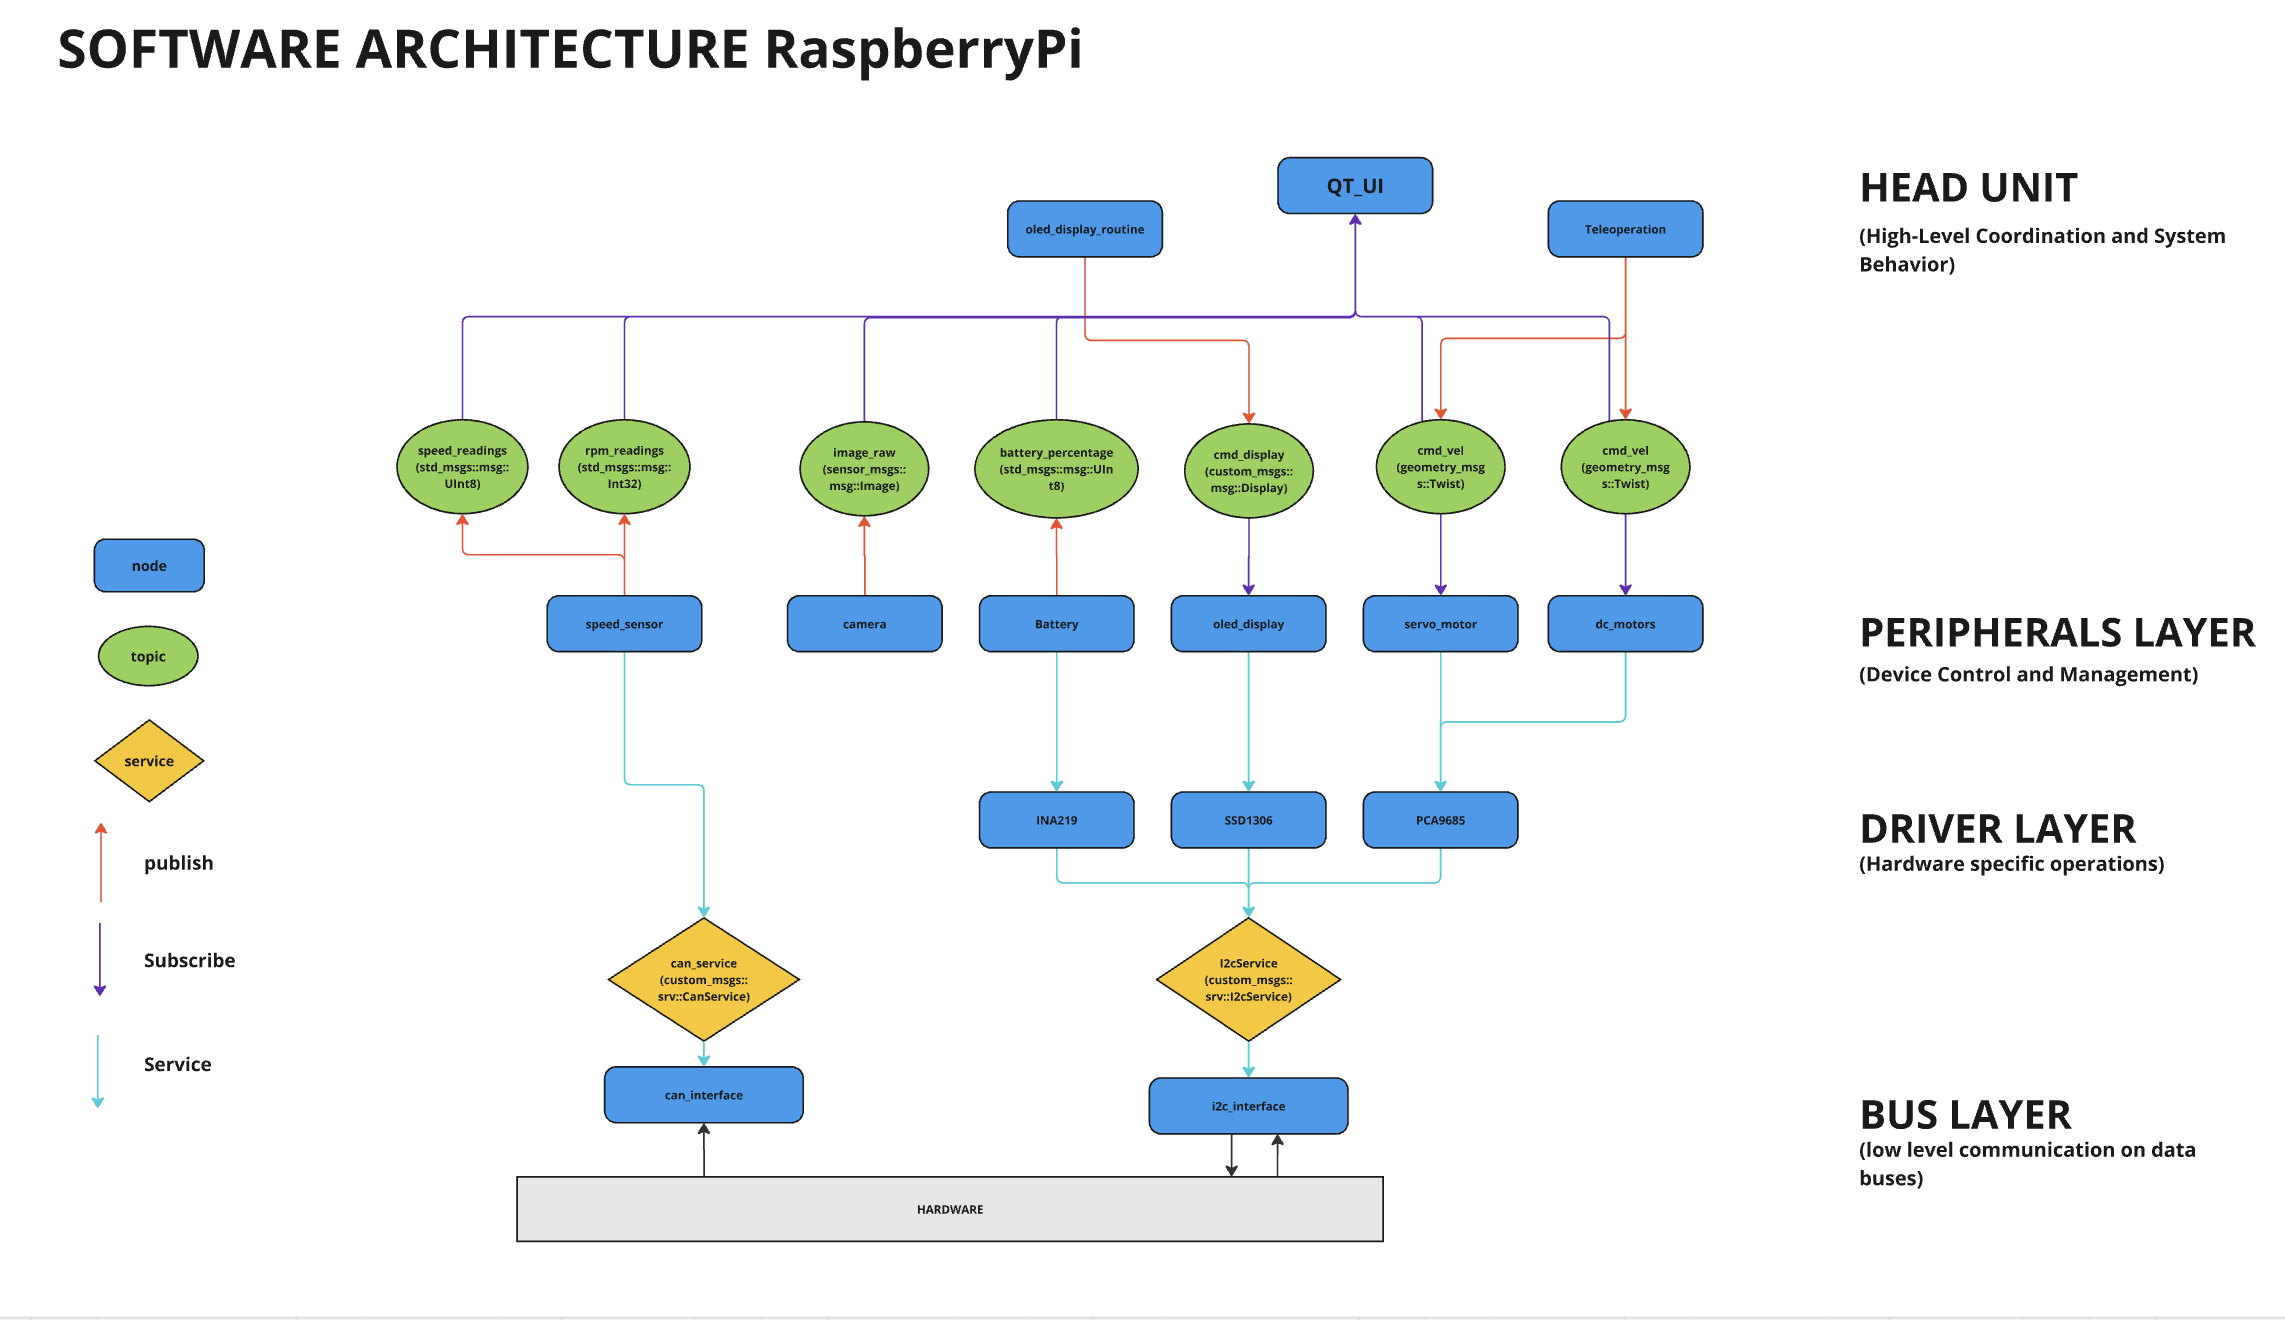
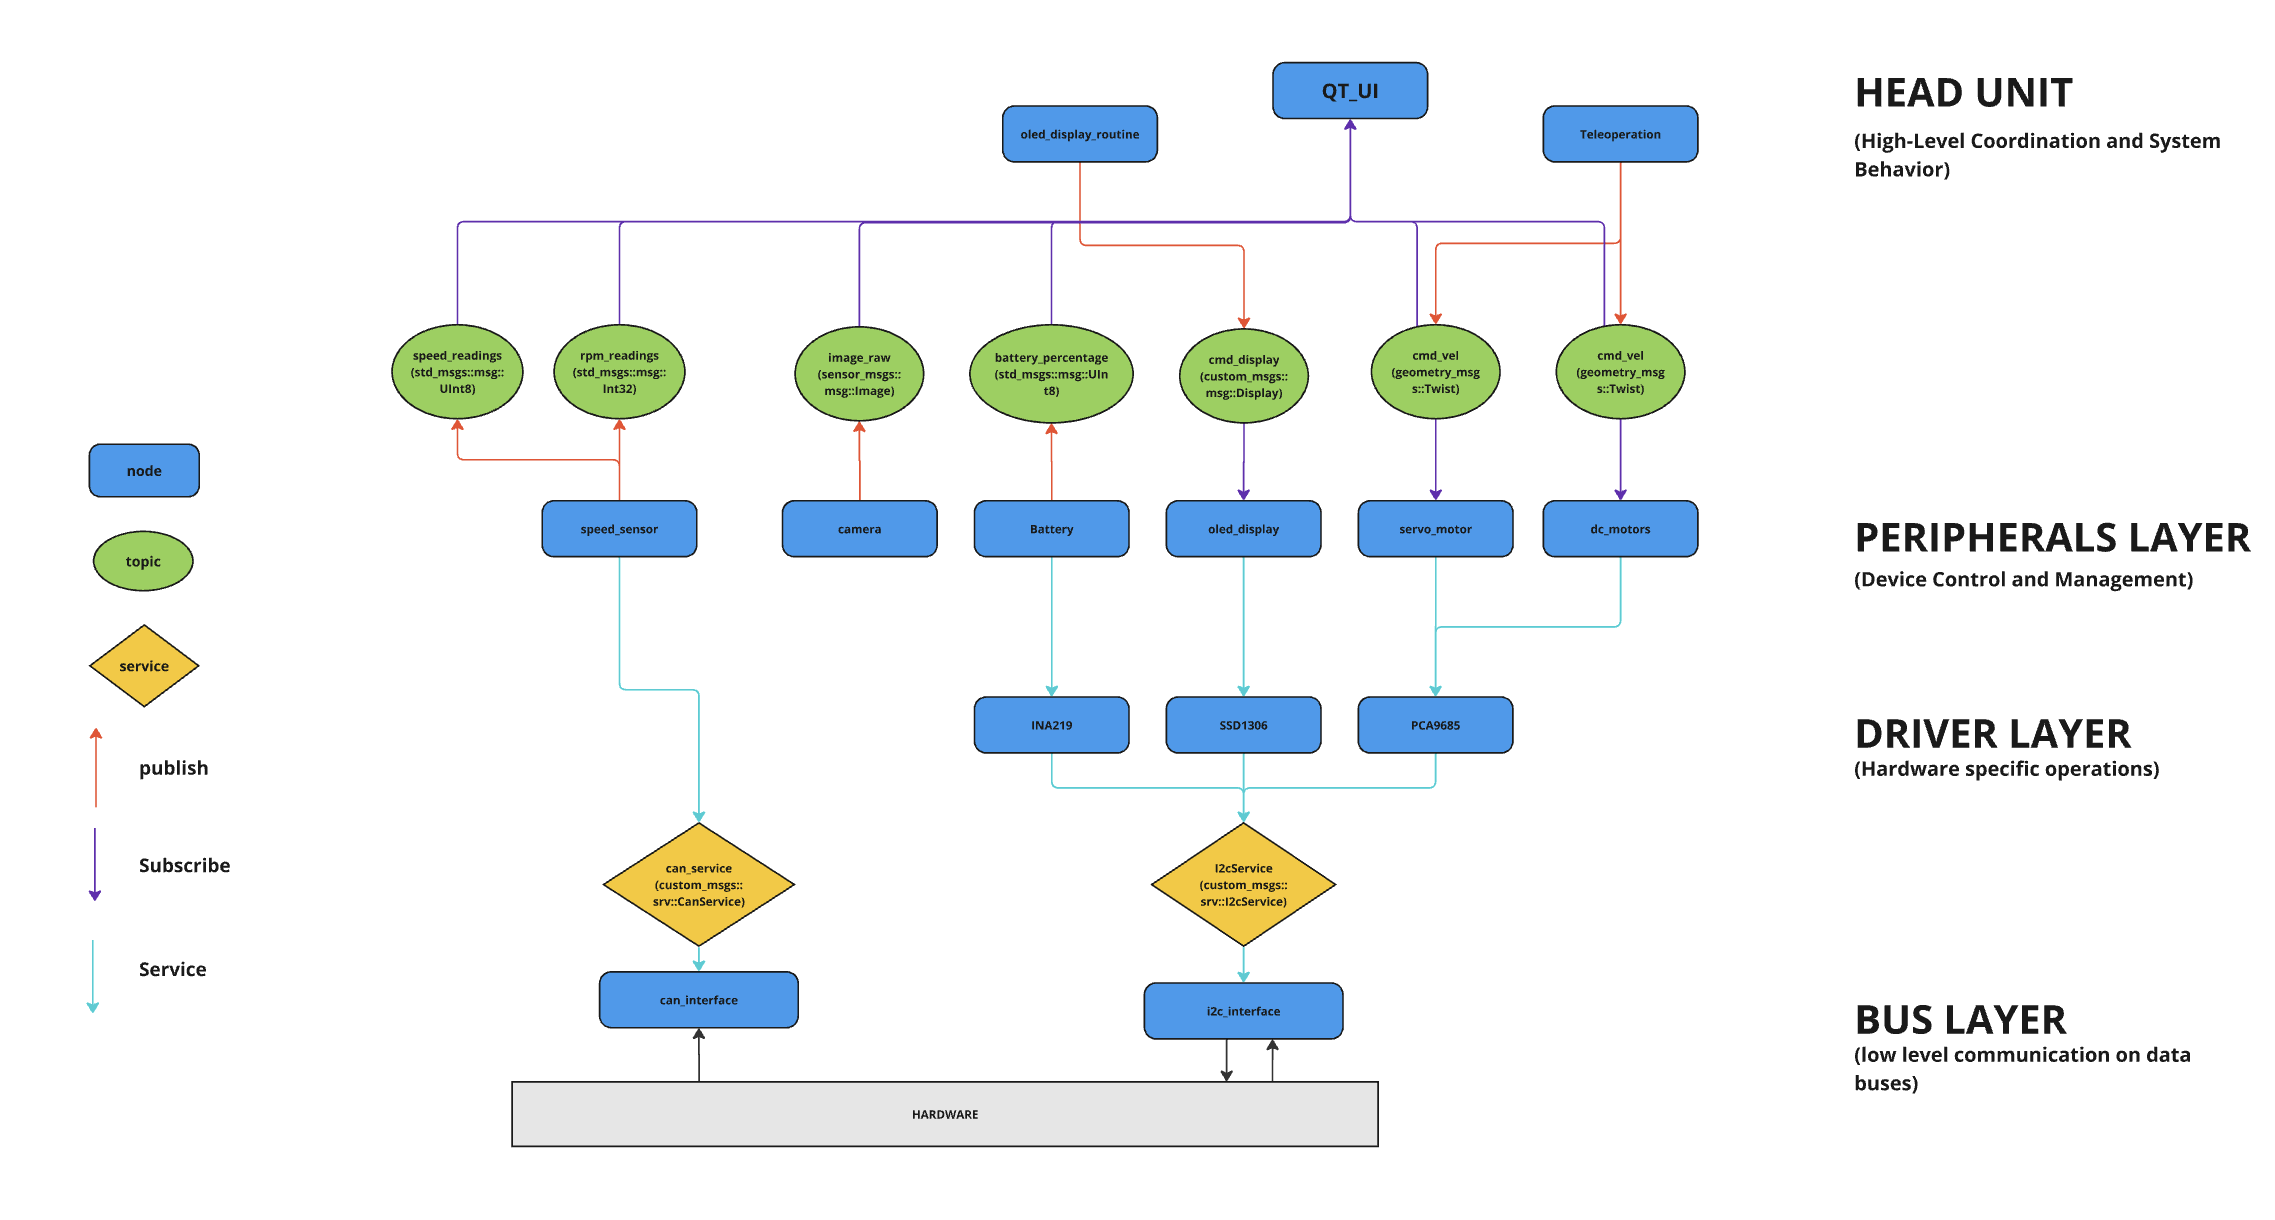
cleaner software arch for jetracer
cleaner software arch for jetracer

diff --git a/JetRacer/README.md b/JetRacer/README.md
@@ -6,12 +6,11 @@ This folder contains the ROS2 workspace and its source code. The codebase is org
 - **Drivers**: Defines device specific operations.
 - **Peripherals**: Communicate with the drivers and manage higher-level device functionality.
 - **Head Unit**: Coordinates the peripherals and handles higher-level logic.
-
-![System Diagram](../.github/images/software_architecture.png)
-
 ---
 
-## Layered Architecture
+## Software Architecture
+
+![System Diagram](../.github/images/software_architecture.png)
 
 The project structure follows a clear layered architecture that helps isolate responsibilities and ensures modularity. The three main layers are:
 
